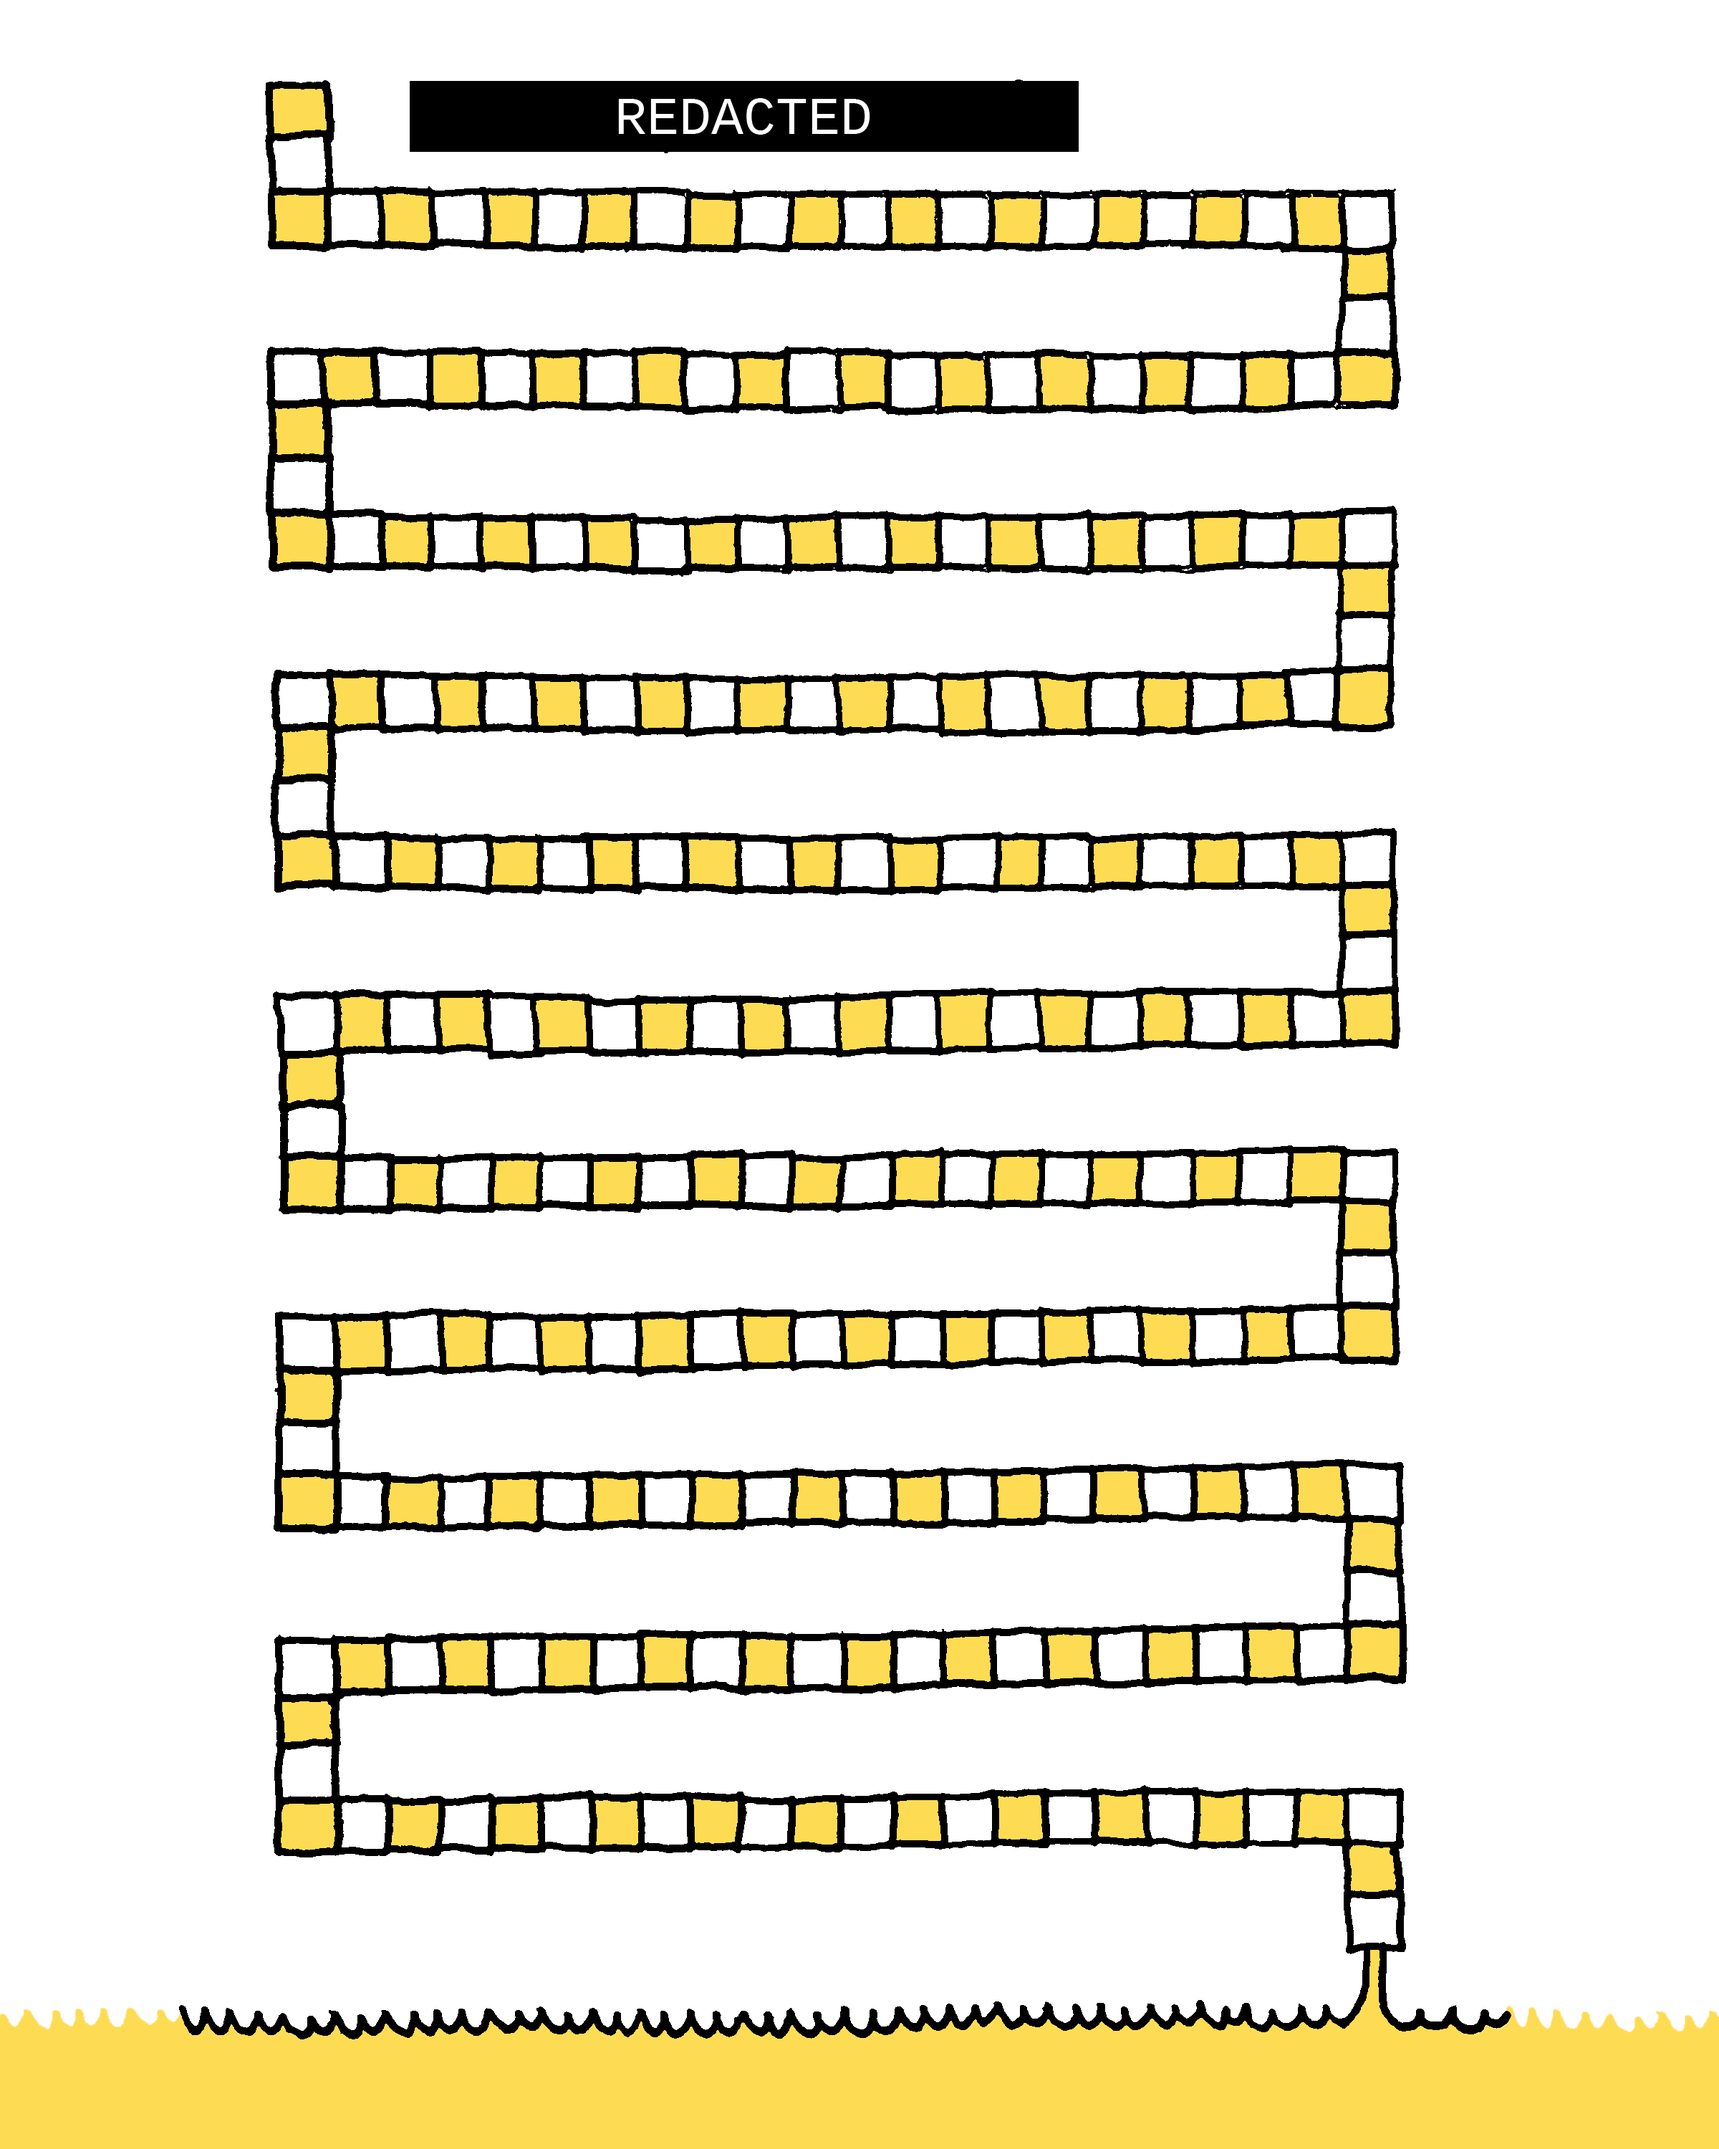
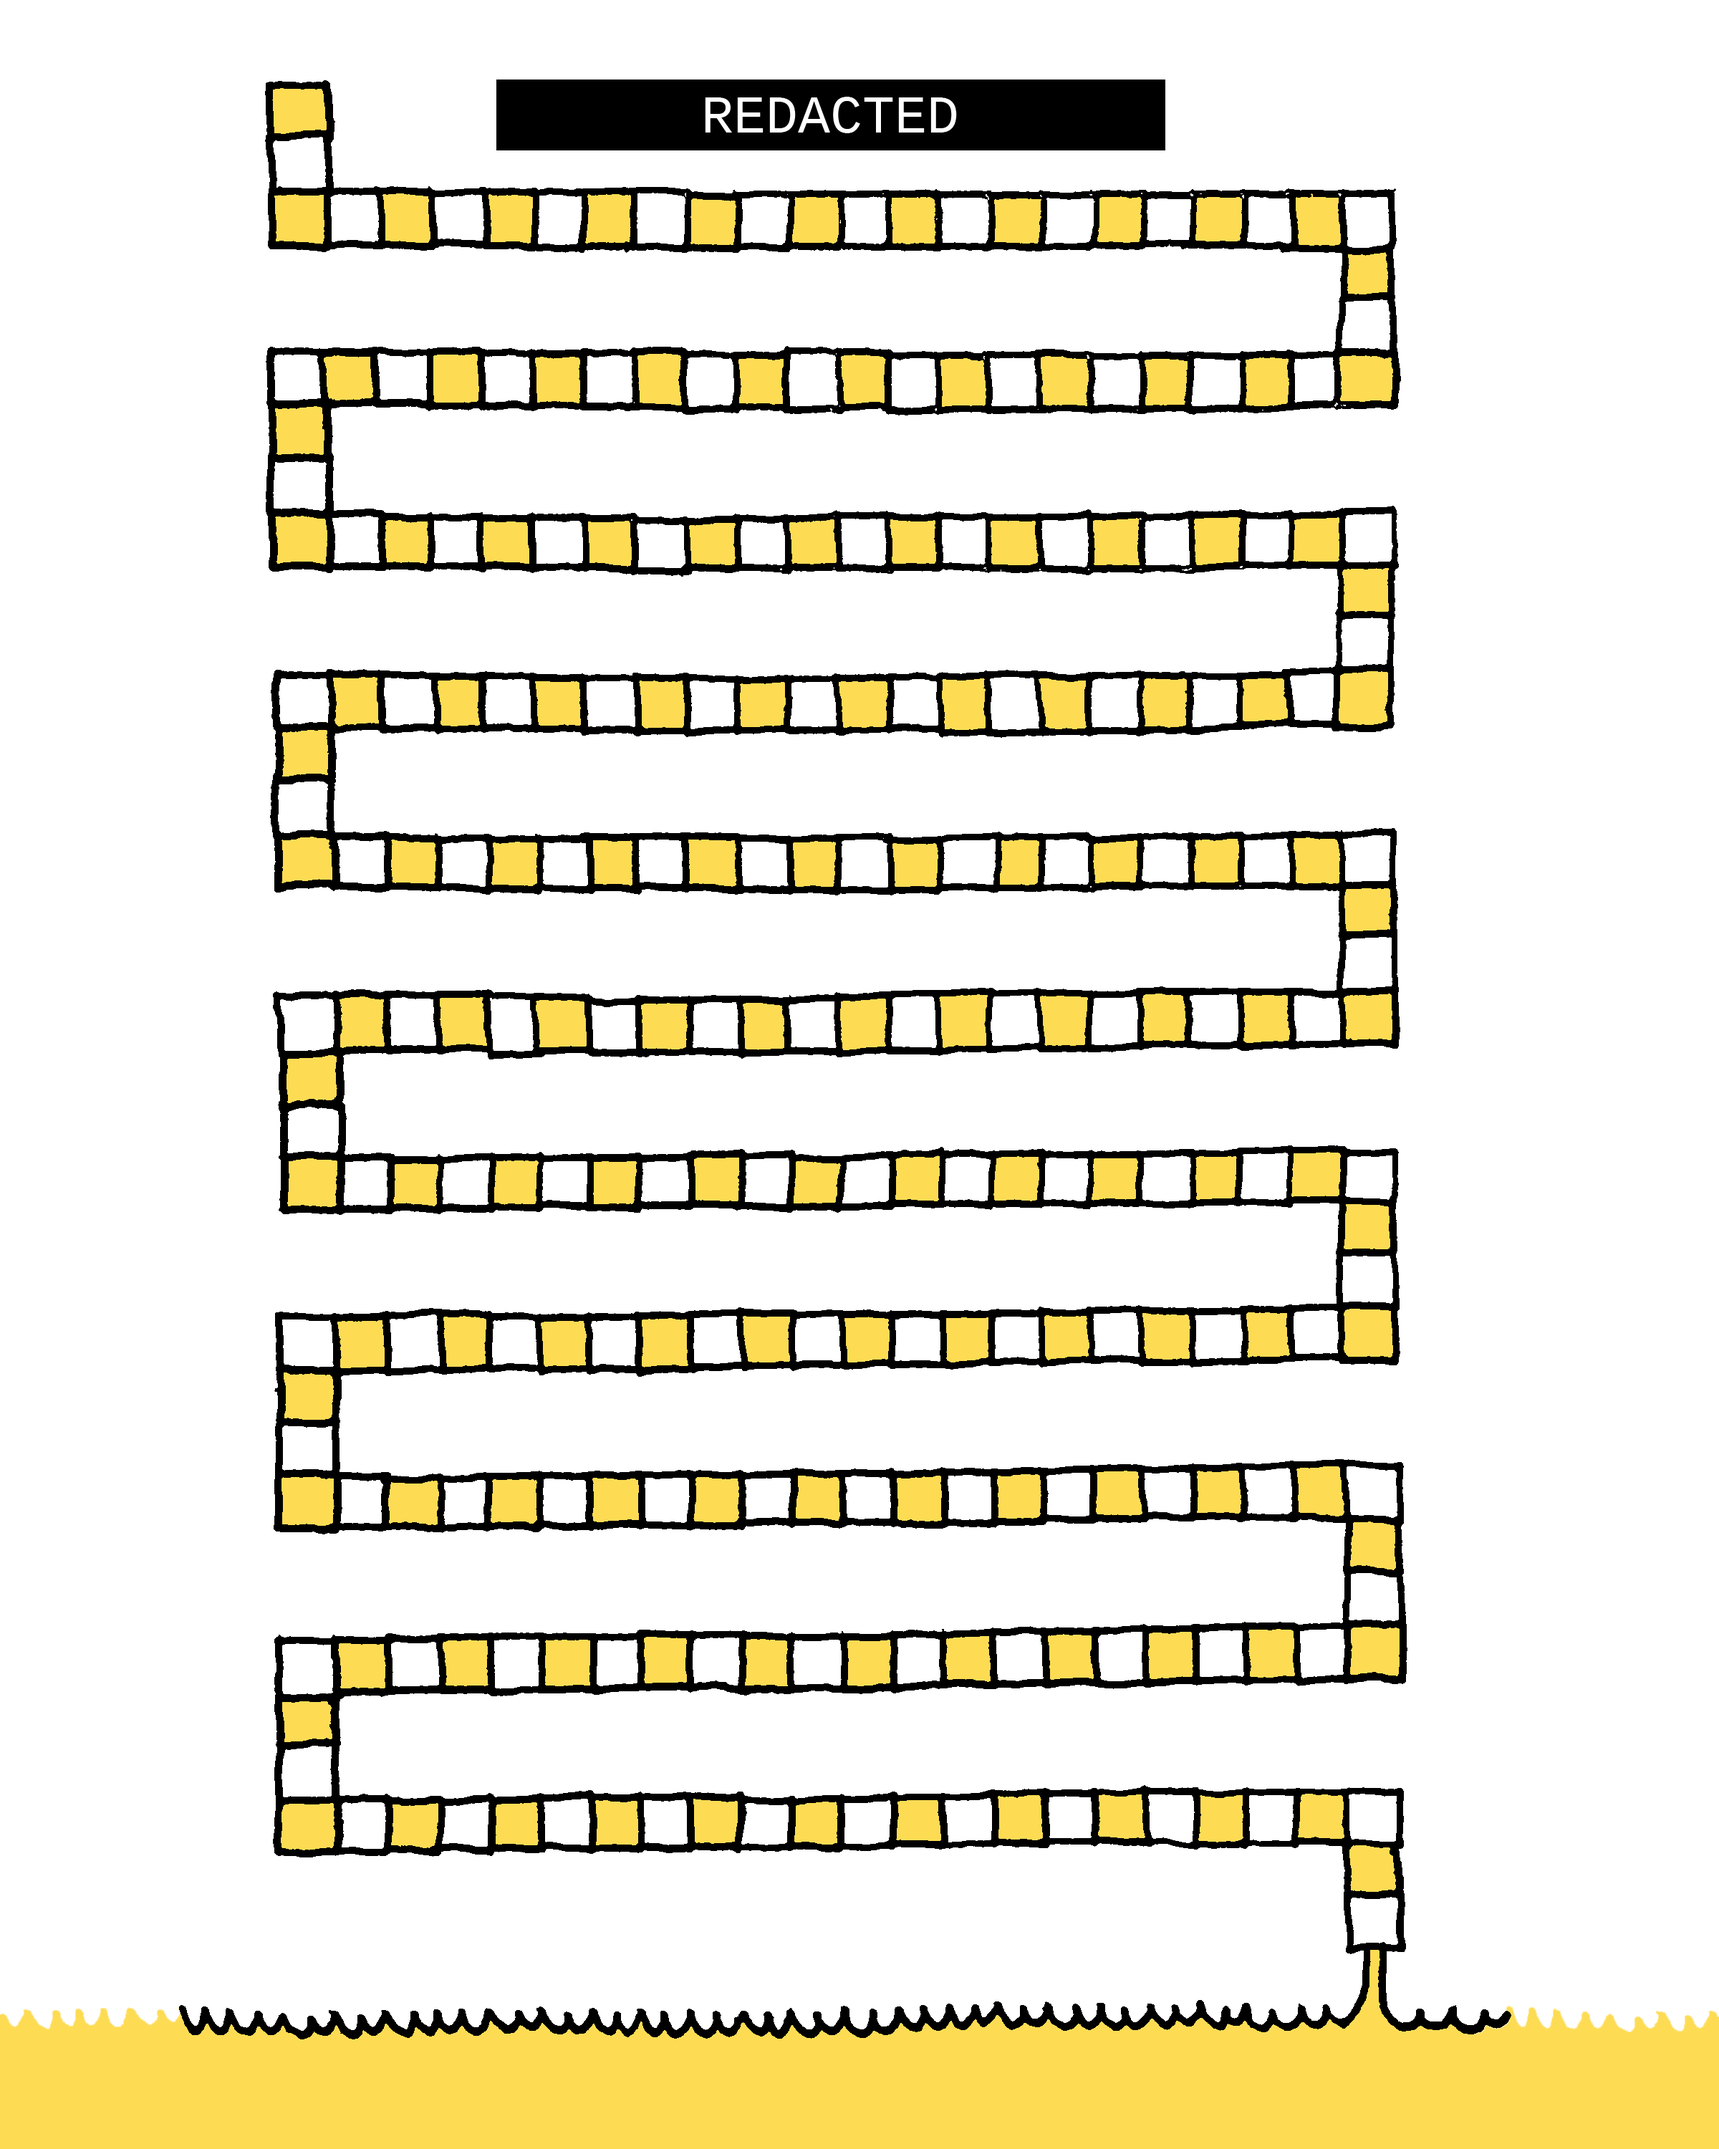
update gold

Changed region(s): [[0.3438, 0.031, 0.5625, 0.062], [0.2188, 0.031, 0.3125, 0.093], [0.625, 0.031, 0.6875, 0.093]]

diff --git a/gold.html b/gold.html
@@ -192,7 +192,7 @@
     <div class="img-container" id="page42"><img src="./media/gold/77.png" loading="lazy" alt="77.png"></div>
     <div class="img-container" id="page43"><img src="./media/gold/81.png" loading="lazy" alt="81.png"></div>
     <div class="img-container" id="page44"><img src="./media/gold/83.png" loading="lazy" alt="83.png"></div>
-    <div class="img-container" id="page45"><img src="./media/gold/85.png" loading="lazy" alt="85.png"></div>
+    <div class="img-container" id="page45"><img src="./media/gold/85.1 (235).png" loading="lazy" alt="85.1 (235).png"></div>
     <div class="img-container" id="page46"><img src="./media/gold/89.png" loading="lazy" alt="89.png"></div>
     <div class="img-container" id="page47"><img src="./media/gold/91.png" loading="lazy" alt="91.png"></div>
     <div class="img-container" id="page48"><img src="./media/gold/92.1.png" loading="lazy" alt="92.1.png"></div>
@@ -261,22 +261,21 @@
     <div class="img-container" id="page111"><img src="./media/gold/229.png" loading="lazy" alt="229.png"></div>
     <div class="img-container" id="page112"><img src="./media/gold/231.png" loading="lazy" alt="231.png"></div>
     <div class="img-container" id="page113"><img src="./media/gold/233.png" loading="lazy" alt="233.png"></div>
-    <div class="img-container" id="page114"><img src="./media/gold/235.png" loading="lazy" alt="235.png"></div>
-    <div class="img-container" id="page115"><img src="./media/gold/237.png" loading="lazy" alt="237.png"></div>
-    <div class="img-container" id="page116"><img src="./media/gold/239.png" loading="lazy" alt="239.png"></div>
-    <div class="img-container" id="page117"><img src="./media/gold/241.png" loading="lazy" alt="241.png"></div>
-    <div class="img-container" id="page118"><img src="./media/gold/243.png" loading="lazy" alt="243.png"></div>
-    <div class="img-container" id="page119"><img src="./media/gold/245.png" loading="lazy" alt="245.png"></div>
-    <div class="img-container" id="page120"><img src="./media/gold/247.png" loading="lazy" alt="247.png"></div>
-    <div class="img-container" id="page121"><img src="./media/gold/249.png" loading="lazy" alt="249.png"></div>
-    <div class="img-container" id="page122"><img src="./media/gold/251.png" loading="lazy" alt="251.png"></div>
-    <div class="img-container" id="page123"><img src="./media/gold/252.png" loading="lazy" alt="252.png"></div>
-    <div class="img-container" id="page124"><img src="./media/gold/253.png" loading="lazy" alt="253.png"></div>
+    <div class="img-container" id="page114"><img src="./media/gold/237.png" loading="lazy" alt="237.png"></div>
+    <div class="img-container" id="page115"><img src="./media/gold/239.png" loading="lazy" alt="239.png"></div>
+    <div class="img-container" id="page116"><img src="./media/gold/241.png" loading="lazy" alt="241.png"></div>
+    <div class="img-container" id="page117"><img src="./media/gold/243.png" loading="lazy" alt="243.png"></div>
+    <div class="img-container" id="page118"><img src="./media/gold/245.png" loading="lazy" alt="245.png"></div>
+    <div class="img-container" id="page119"><img src="./media/gold/247.png" loading="lazy" alt="247.png"></div>
+    <div class="img-container" id="page120"><img src="./media/gold/249.png" loading="lazy" alt="249.png"></div>
+    <div class="img-container" id="page121"><img src="./media/gold/251.png" loading="lazy" alt="251.png"></div>
+    <div class="img-container" id="page122"><img src="./media/gold/252.png" loading="lazy" alt="252.png"></div>
+    <div class="img-container" id="page123"><img src="./media/gold/253.png" loading="lazy" alt="253.png"></div>
 
   </div>
 
   <div id="page-counter">
-    <span id="counter-text">0 / 0</span> &nbsp;❤&nbsp; <a href="https://www.scorsby.us/home.html" target="_blank" style="text-decoration: underline;">scorsby.us</a>
+    <span id="counter-text">1 / 123</span> &nbsp;❤&nbsp; <a href="https://www.scorsby.us/home.html" target="_blank" style="text-decoration: underline;">scorsby.us</a>
 </div>
 
   <div class="donation-wrap">

diff --git a/make_gold.py b/make_gold.py
@@ -176,7 +176,7 @@ def generate_gallery():
   </div>
 
   <div id="page-counter">
-    <span id="counter-text">0 / 0</span> &nbsp;❤&nbsp; <a href="https://www.scorsby.us/home.html" target="_blank" style="text-decoration: underline;">scorsby.us</a>
+    <span id="counter-text">1 / 123</span> &nbsp;❤&nbsp; <a href="https://www.scorsby.us/home.html" target="_blank" style="text-decoration: underline;">scorsby.us</a>
 </div>
 
   <div class="donation-wrap">
